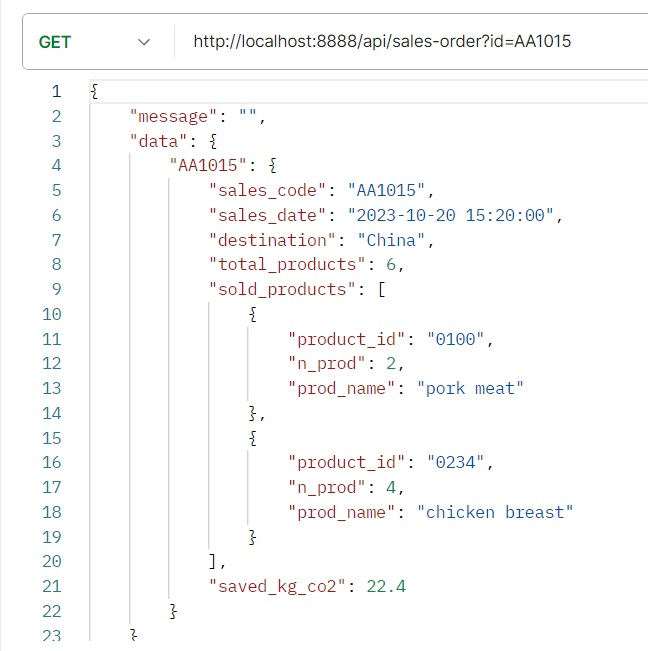
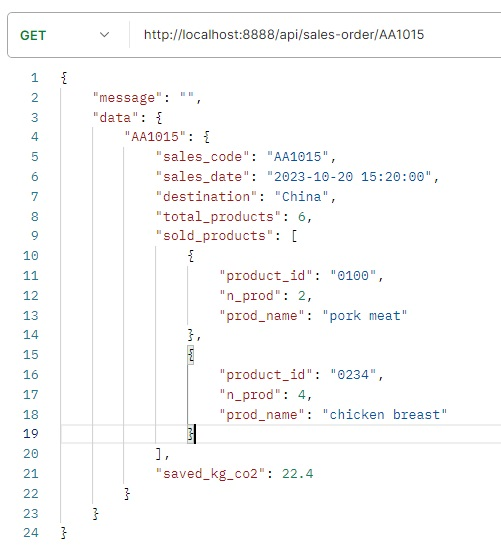
Update documentation

diff --git a/core/error-handler.php b/core/error-handler.php
@@ -4,9 +4,9 @@ use App\core\Response;
 
 // In development comment these lines of code
 
-/* -----> */ //error_reporting(E_ALL);
-/* -----> */ //ini_set('display_errors', 0);
-/* -----> */ //set_error_handler('errorHandler');
+/* -----> */ error_reporting(E_ALL);
+/* -----> */ ini_set('display_errors', 0);
+/* -----> */ set_error_handler('errorHandler');
 
 function fileCheck($path)
 {

diff --git a/README.md b/README.md
@@ -83,12 +83,12 @@
 ### Lettura dei prodotti:
 
     GET -> {domain}/api/products/all
-    GET -> {domain}/api/product?id={id}
+    GET -> {domain}/api/product/{id}
 
 ### Lettura ordine completo:
 
     GET -> {domain}/api/sales-orders/all
-    GET -> {domain}/api/sales-order?id={id}
+    GET -> {domain}/api/sales-order/{id}
 
 </br>
 
